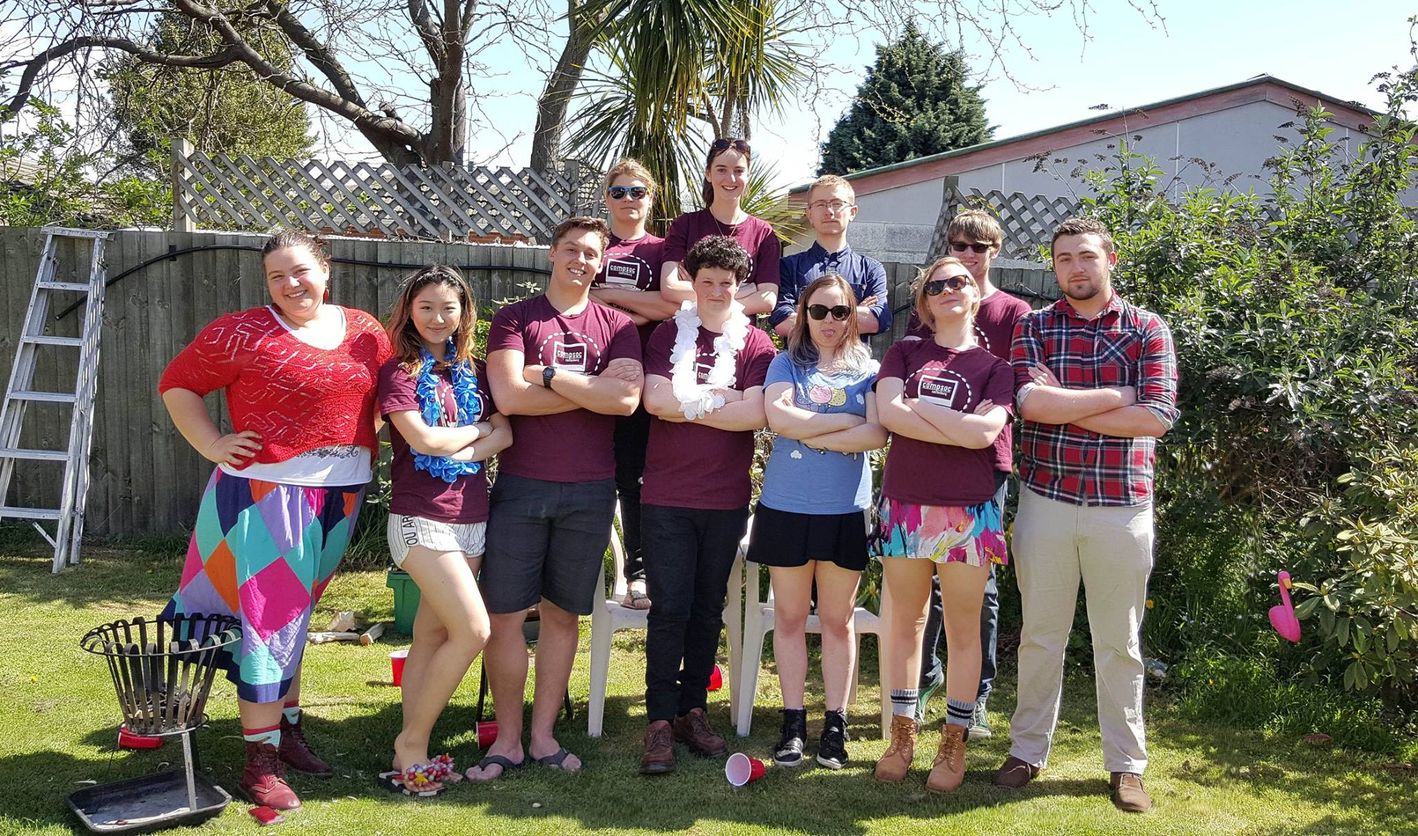
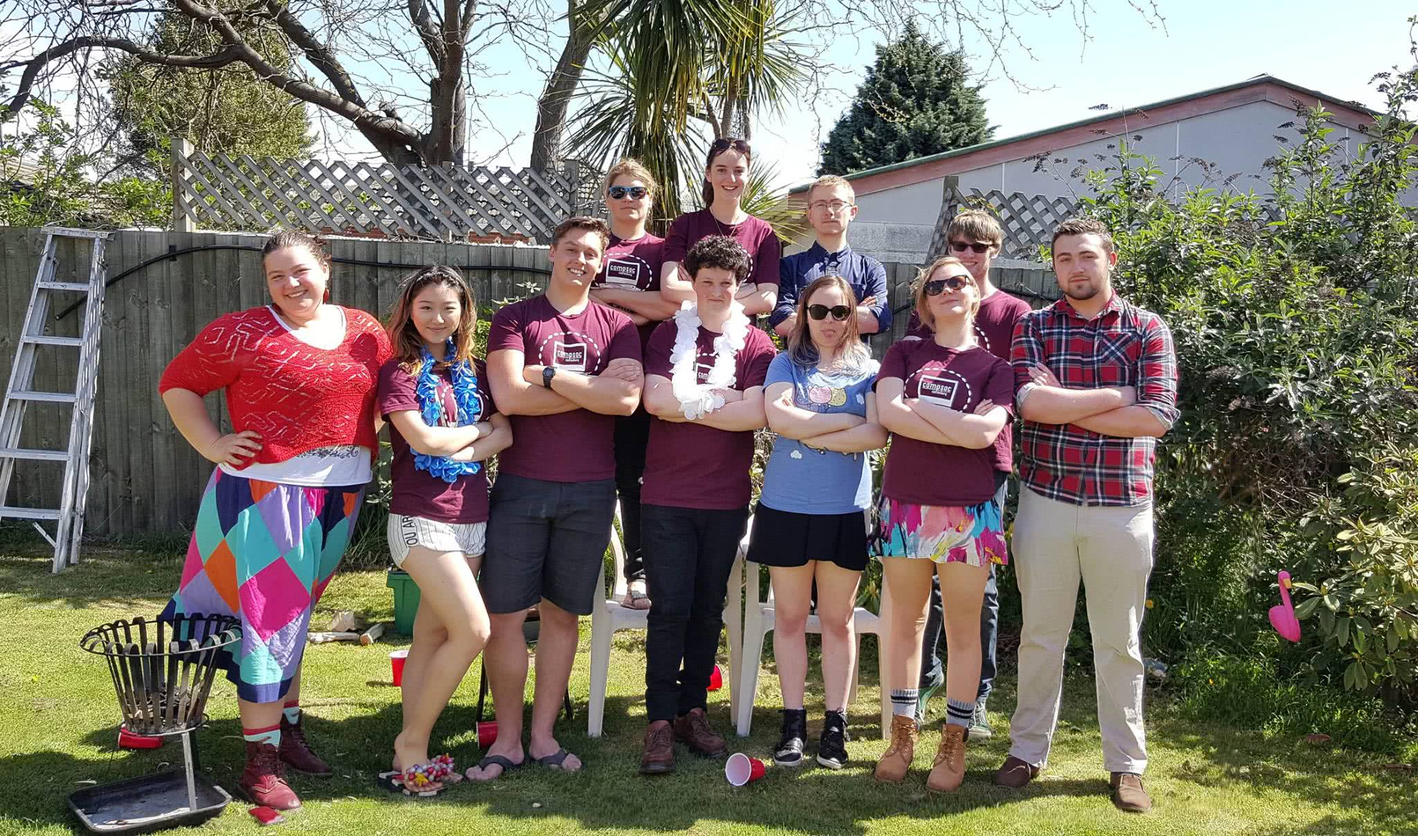
Remove unused photos, compress large commitee photos

diff --git a/html/about.php b/html/about.php
@@ -81,7 +81,7 @@ include 'include/header.php';
                         </li>
 
                         <li>
-                            <img src='resources/hamish.png' alt='Hamish Johnston'/>
+                            <img src='resources/hamish.jpg' alt='Hamish Johnston'/>
                             <span class='name'>Hamish Johnston</span>
                             <span class='position'>Secretary <br /> Equity Officer</span>
                             <a href='mailto:secretary@compsoc.org.nz'>secretary@compsoc.org.nz</a>
@@ -116,7 +116,7 @@ include 'include/header.php';
                         </li>
 
                         <li>
-                            <img src='resources/chris.png' alt='Chris Guo'/>
+                            <img src='resources/chris.jpg' alt='Chris Guo'/>
                             <span class='name'>Chris Guo</span>
                             <span class='position'>Social Event Manager</span>
                             <a href='mailto:social@compsoc.org.nz'>social@compsoc.org.nz</a>
